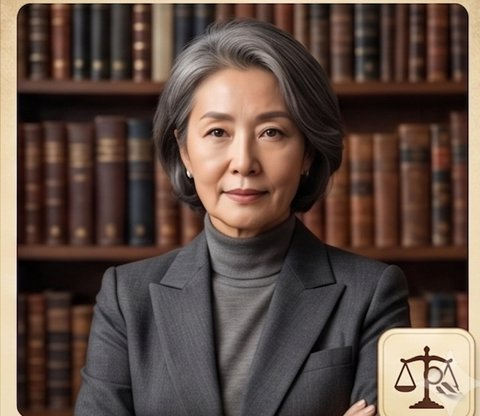
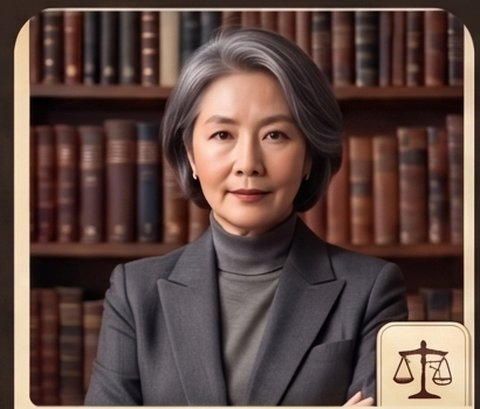
8인 크루 전원 실사 프로필 사진 반영
사용자가 Gemini로 생성한 8인 프로필 이미지에서 각자 사진을
잘라 배치. 기존 3인(이소진/최민우/박미란)은 새 배치로 교체해
톤을 통일하고, 나머지 5인(정다은/남도윤/백하늘/조단비/강수연)은
"사진 준비 중" 표시를 실제 사진으로 교체.

diff --git a/site/index.html b/site/index.html
@@ -161,15 +161,6 @@
   }
   .crew-card .portrait { width: 100%; aspect-ratio: 480 / 418; overflow: hidden; background: var(--wood); }
   .crew-card .portrait img { width: 100%; height: 100%; object-fit: cover; display: block; }
-  .crew-card .portrait.illustrated-portrait {
-    background: linear-gradient(135deg, var(--wood-light), var(--wood));
-    display: flex; flex-direction: column; align-items: center; justify-content: center; gap: .5rem;
-  }
-  .illustrated-portrait svg { width: 34%; color: var(--brass-bright); }
-  .illustrated-portrait .portrait-note {
-    font-family: "IBM Plex Mono", monospace; font-size: .64rem; color: var(--muted-paper);
-    letter-spacing: .04em;
-  }
   .crew-card .crew-body {
     padding: .9rem 1.1rem 1.2rem; display: flex; flex-direction: column; gap: .3rem; text-align: center;
   }
@@ -316,13 +307,7 @@
       </article>
 
       <article class="crew-card">
-        <div class="portrait illustrated-portrait">
-          <svg viewBox="0 0 48 48" fill="none" stroke="currentColor" stroke-width="2.3" stroke-linecap="round" stroke-linejoin="round">
-            <path d="M31 8 L41 18 L21 38 L12 40 L14 31 Z"/>
-            <circle cx="15" cy="35.5" r="1.6" fill="currentColor" stroke="none"/>
-          </svg>
-          <span class="portrait-note">사진 준비 중</span>
-        </div>
+        <div class="portrait"><img src="images/designer.jpg" alt="디자인 담당 에이전트 정다은의 초상" loading="lazy"></div>
         <div class="crew-body">
           <p class="crew-persona">정다은<span class="en">Dawn Jung</span></p>
           <p class="crew-role">디자인 담당 · 디자인실</p>
@@ -333,14 +318,7 @@
       </article>
 
       <article class="crew-card">
-        <div class="portrait illustrated-portrait">
-          <svg viewBox="0 0 48 48" fill="none" stroke="currentColor" stroke-width="2.3" stroke-linecap="round" stroke-linejoin="round">
-            <path d="M9 40 L20 29"/>
-            <path d="M18.5 27.5 L34.5 11 L38 14.5 L22 31 Z"/>
-            <circle cx="36" cy="13" r="1.8" fill="currentColor" stroke="none"/>
-          </svg>
-          <span class="portrait-note">사진 준비 중</span>
-        </div>
+        <div class="portrait"><img src="images/researcher.jpg" alt="리서치 담당 에이전트 남도윤의 초상" loading="lazy"></div>
         <div class="crew-body">
           <p class="crew-persona">남도윤<span class="en">Dylan Nam</span></p>
           <p class="crew-role">리서치 담당 · 자료실</p>
@@ -351,13 +329,7 @@
       </article>
 
       <article class="crew-card">
-        <div class="portrait illustrated-portrait">
-          <svg viewBox="0 0 48 48" fill="none" stroke="currentColor" stroke-width="2.3" stroke-linecap="round" stroke-linejoin="round">
-            <path d="M14 6 L14 42"/>
-            <path d="M14 8.5 L36 15 L14 23 Z"/>
-          </svg>
-          <span class="portrait-note">사진 준비 중</span>
-        </div>
+        <div class="portrait"><img src="images/marketer.jpg" alt="마케팅 담당 에이전트 백하늘의 초상" loading="lazy"></div>
         <div class="crew-body">
           <p class="crew-persona">백하늘<span class="en">Skye Baek</span></p>
           <p class="crew-role">마케팅 담당 · 홍보실</p>
@@ -368,15 +340,7 @@
       </article>
 
       <article class="crew-card">
-        <div class="portrait illustrated-portrait">
-          <svg viewBox="0 0 48 48" fill="none" stroke="currentColor" stroke-width="2.3" stroke-linecap="round" stroke-linejoin="round">
-            <circle cx="14" cy="14" r="6"/>
-            <path d="M18.5 18.5 L38 38"/>
-            <path d="M30.5 30.5 L35 26"/>
-            <path d="M34.5 34.5 L39 30"/>
-          </svg>
-          <span class="portrait-note">사진 준비 중</span>
-        </div>
+        <div class="portrait"><img src="images/admin.jpg" alt="총무 담당 에이전트 조단비의 초상" loading="lazy"></div>
         <div class="crew-body">
           <p class="crew-persona">조단비<span class="en">Danbi Cho</span></p>
           <p class="crew-role">총무 담당 · 사무실</p>
@@ -387,13 +351,7 @@
       </article>
 
       <article class="crew-card">
-        <div class="portrait illustrated-portrait">
-          <svg viewBox="0 0 48 48" fill="none" stroke="currentColor" stroke-width="2.3" stroke-linecap="round" stroke-linejoin="round">
-            <path d="M6 12 C13 9 19 10 24 13 L24 38 C19 35 13 34 6 37 Z"/>
-            <path d="M42 12 C35 9 29 10 24 13 L24 38 C29 35 35 34 42 37 Z"/>
-          </svg>
-          <span class="portrait-note">사진 준비 중</span>
-        </div>
+        <div class="portrait"><img src="images/advisor.jpg" alt="고문 에이전트 강수연의 초상" loading="lazy"></div>
         <div class="crew-body">
           <p class="crew-persona">강수연<span class="en">Sue Kang</span></p>
           <p class="crew-role">고문 (아동문학가) · 자문실</p>
